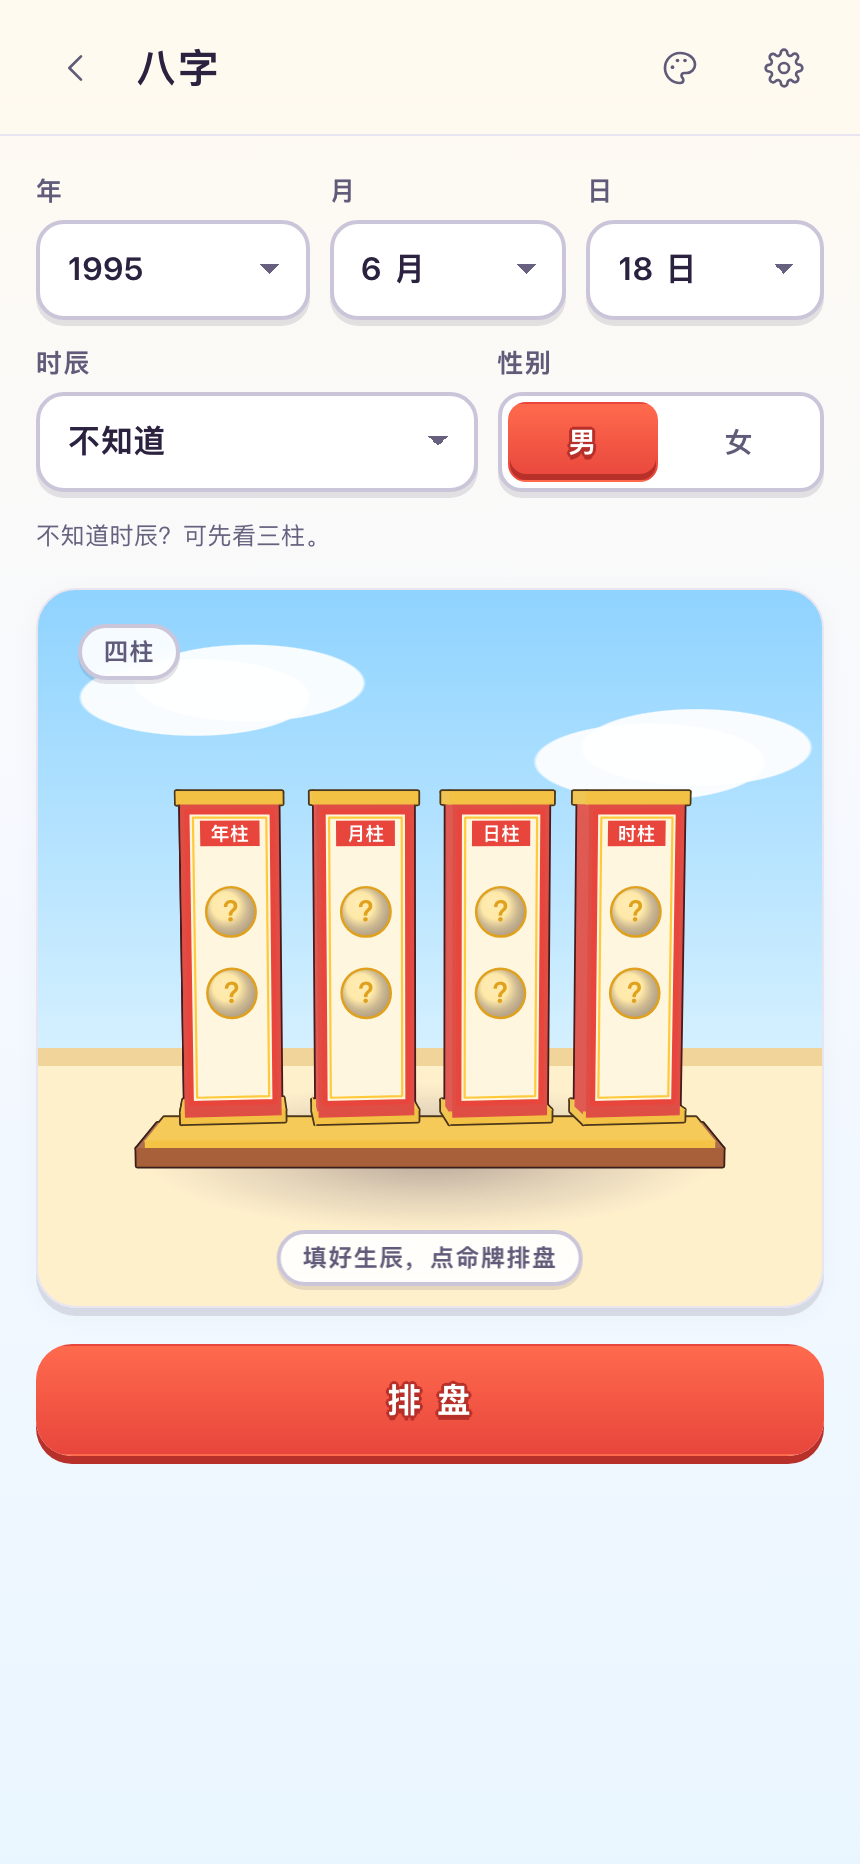
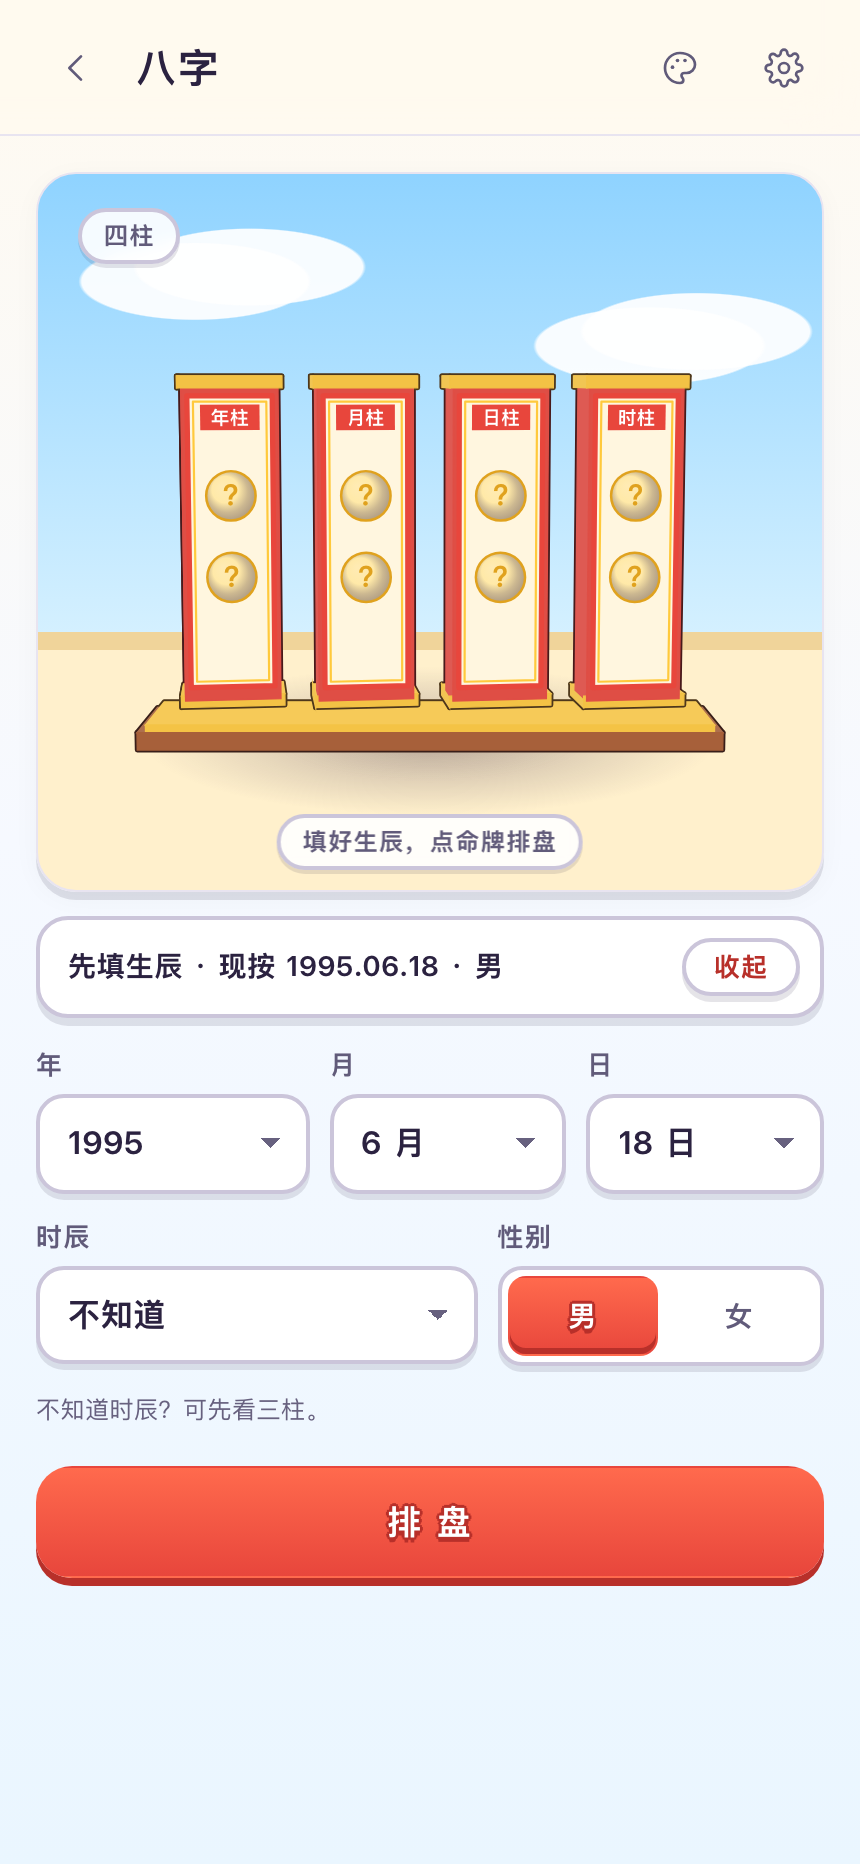
八字生辰表单折叠到舞台下方（命牌进首屏上半部），风水「填上生年」改描边胶囊
第 48 轮。新用户默认展开表单，排过一次后收起。tests/toon-fold.test.mjs 2 项。
第 45 轮留下的未提交改动仍原样留在工作区，未包含在本提交。

Claude-Session: https://claude.ai/code/session_01LrMMAZURPfG94J5foaSPPV

diff --git a/src/modules/bazi/view.js b/src/modules/bazi/view.js
@@ -4,6 +4,7 @@ import { computeChart, elementRatios, shareText, daysInMonth, ELEMENTS } from '.
 import { HOURS, GENDERS, DAY_MASTER, ELEMENT_INFO, SHISHEN_TEXT, TODAY_TEXT, NAYIN_TEXT, STRENGTH_TEXT, UI } from './data.js';
 import { createRitual } from '../../ui/ritual.js';
 import { createModelSlot } from '../../ui/model-slot.js';
+import { createBirthFold, describeBirth } from '../../ui/birth-form.js';
 
 const YEAR_NOW = new Date().getFullYear();
 
@@ -18,6 +19,8 @@ export function mount(container, ctx) {
   let chart = null;
   let resultSheet = null;
   let busy = false;
+  // 填过生辰（自己的或共享的）就把表单折叠成舞台下一行，首屏留给命牌。新用户默认展开，免得拿占位生辰排盘
+  let hasBirth = !!(storage.get('birth', null) || shared);
 
   /* ---------- 表单 ---------- */
   const years = [];
@@ -41,6 +44,8 @@ export function mount(container, ctx) {
     input = { ...input, [k]: v };
     if (k === 'y' || k === 'm') fillDays();
     storage.set('birth', input);
+    hasBirth = true;
+    fold.update();
     haptic.tap();
     if (chart && !busy) {
       chart = null;
@@ -61,6 +66,12 @@ export function mount(container, ctx) {
     h('p', { class: 'bz-note' }, UI.hourNote),
   );
   const setFormDisabled = (v) => form.querySelectorAll('select, button').forEach((el) => { el.disabled = v; });
+  const fold = createBirthFold({
+    cls: 'bz-fold',
+    summary: () => (hasBirth ? `我的生辰 · ${describeBirth(input)}` : `先填生辰 · 现按 ${describeBirth(input)}`),
+    content: form,
+    open: !hasBirth,
+  });
 
   /* ---------- 舞台：四柱 ---------- */
   const st = stage({ cls: 'bz-stage', badge: UI.badgeIdle, hint: UI.stageHint });
@@ -73,7 +84,7 @@ export function mount(container, ctx) {
 
   const primaryBtn = button(UI.primary, { variant: 'primary', size: 'large', primary: true, onClick: () => compute() });
   // 先把界面挂上，再创建命牌模型：模型在已连接的舞台里初始化，首帧就能画出来。
-  container.append(ritual.progress, form, h('div', { class: 'mt-3' }, st.el), kit.actionBar(primaryBtn), ritual.receipt, barsEl, todayEl);
+  container.append(ritual.progress, st.el, fold.el, kit.actionBar(primaryBtn), ritual.receipt, barsEl, todayEl);
   const slot = createModelSlot(ctx, { id: 'bazi.pillars', label: '四柱命牌', hint: UI.stageHint });
   slot.el.classList.add('bz-slot');
   st.scene.append(slot.el, pillarsEl);
@@ -98,6 +109,10 @@ export function mount(container, ctx) {
       setFormDisabled(false);
       return;
     }
+    // 排过一次就算填过：记下生辰并收起表单，结果出来时舞台和小结在一屏里
+    if (!hasBirth) { hasBirth = true; storage.set('birth', input); }
+    fold.update();
+    fold.setOpen(false);
     haptic.light();
     sound.play('flip');
     st.setBadge(`${chart.lunarText} · ${chart.shengXiao}年生`);

diff --git a/src/styles/toon-buttons.css b/src/styles/toon-buttons.css
@@ -118,3 +118,27 @@
 [data-theme='paper'] :is(.birth-form .bf-row2, .m-bazi .bz-form .bz-row2) .chip.active { color: #fff; text-shadow: var(--btn-outline); }
 /* 青瓷主色偏浅，和它的主按钮一样给白字加深色描边 */
 [data-theme='celadon'] :is(.birth-form .bf-row2, .m-bazi .bz-form .bz-row2) .chip.active { text-shadow: var(--btn-outline); }
+
+/* 第 48 轮：风水罗盘读数下的「填上生年，看此方对你的吉凶」原来是红字配点状下划线，像网页链接。
+   改成和「去填生辰」同一套白底 2px 描边胶囊加 3px 厚边，主色字，按下下沉，点按区域 44pt。 */
+.m-fengshui .btn.fs-fill {
+  min-height: 44px;
+  margin-top: 6px;
+  padding: 6px 16px;
+  background: var(--surface);
+  border: 2px solid var(--line-strong);
+  border-radius: 999px;
+  box-shadow: 0 3px 0 var(--edge-color);
+  color: var(--accent-text);
+  font-family: var(--font-round, var(--font-sans));
+  font-size: 13px;
+  font-weight: 800;
+  letter-spacing: .02em;
+  text-decoration: none;
+  white-space: nowrap;
+}
+.m-fengshui .btn.fs-fill:active:not(:disabled) { transform: translateY(2px); box-shadow: 0 1px 0 var(--edge-color); }
+
+/* 第 48 轮：八字的生辰表单从舞台上方挪到舞台下方，折叠成一行（同姻缘），393×852 下命牌进首屏上半部。
+   新用户默认展开，排过一次后收起。 */
+.m-bazi .bz-fold .bz-form { margin-bottom: 0; }

diff --git a/docs/claude-plan/TODO.md b/docs/claude-plan/TODO.md
@@ -147,5 +147,6 @@ P0 上架必需 · P1 影响付费转化 · P2 体验打磨。完成后打勾并
 - [x] **舞台下生辰行、生辰折叠卡、体感卡与「去填生辰」「修改」卡通化**（P2，第 47 轮 @readfull 长图发现）✅ 2026-11-10（财运、事业的生辰行和姻缘、八字的生辰折叠卡是 1px 细边，「去填生辰」「修改」是没有边框的浅粉平涂胶囊，体感卡也是细边。三张卡改 2px 描边加 4px 厚边、文字圆体 800，按钮改白底 2px 描边胶囊加 3px 厚边、主色字、按下下沉。`toon-buttons.css` 第 47 轮一节，`tests/toon-cards.test.mjs`）
 - [x] **舞台角标与底部提示卡通化**（P2，第 47 轮发现）✅ 2026-11-10（左上角「丁亥日 · 中签」「金钱课 · 待掷」等是 12px、字距 .08em 的半透明小签，叠在白云上分不出边界。所有玩法的 `.stage-badge` 与 `.stage-hint` 改 2px 描边胶囊、0 2px 0 厚边、圆体 800、字距 .04em。财运、姻缘、八字、六爻、风水两种尺寸截图过目）
 - [x] **输入框、下拉框与性别切换卡通化**（P2，第 47 轮发现）✅ 2026-11-10（年月日时辰下拉框、六爻「所问之事」输入框是 1px 淡线白框，性别「男 / 女」是细线分段框里一块浅灰底，像系统默认控件。`.input`、`.select`、`.textarea` 全局改 2px 描边加 3px 厚边、圆体 700，聚焦主色描边。生辰表单与八字的性别切换改描边分段框，选中项和选中页签同一套按钮渐变，宣纸与青瓷白字加深色描边。contrast-audit 八字、姻缘、财运、事业、六爻、风水、塔罗、水晶球 × 五套皮肤 0 处，第一次跑出青瓷「男」2.57:1，加描边后修好）
-- [ ] **风水罗盘「填上生年，看此方对你的吉凶」是虚下划线链接**（P2，第 47 轮截图发现）：读数下面一行红字配点状下划线，像网页链接。完成标准：改描边胶囊小按钮（44pt）或描边提示条，两种尺寸截图过目。
-- [ ] **八字表单「不知道时辰？可先看三柱。」与字段间距**（P2，第 47 轮截图发现）：表单区在舞台上方占了约 300px，八字页舞台被推到 393×852 首屏中段。完成标准：考虑像姻缘页一样折叠生辰卡，或保留表单但舞台顶部进入首屏 450px 以内，两种尺寸截图过目。
+- [x] **风水罗盘「填上生年，看此方对你的吉凶」是虚下划线链接** ✅ 2026-11-10（第 48 轮，改白底 2px 描边胶囊加 3px 厚边、主色字、圆体 800、44pt、按下下沉，宣纸与玄墨两种尺寸截图过目，`tests/toon-fold.test.mjs`）（P2，第 47 轮截图发现）：读数下面一行红字配点状下划线，像网页链接。完成标准：改描边胶囊小按钮（44pt）或描边提示条，两种尺寸截图过目。
+- [x] **八字表单「不知道时辰？可先看三柱。」与字段间距** ✅ 2026-11-10（第 48 轮，生辰表单挪到舞台下方并装进 `createBirthFold` 折叠卡，同姻缘。填过生辰（自己的或共享的）默认收起成一行「我的生辰 · 1995.06.18 · 男  修改」，新用户默认展开且写「先填生辰 · 现按 …」，免得拿占位生辰排盘，排过一次后记下生辰并收起。393×852 下舞台顶部约 86px，新用户展开表单时「排盘」按钮仍在首屏。宣纸、玄墨两种尺寸截图过目，`tests/e2e/profile.e2e.mjs` 2 项通过）（P2，第 47 轮截图发现）：表单区在舞台上方占了约 300px，八字页舞台被推到 393×852 首屏中段。完成标准：考虑像姻缘页一样折叠生辰卡，或保留表单但舞台顶部进入首屏 450px 以内，两种尺寸截图过目。
+- [ ] **全量 contrast-audit 复查**（P2，第 48 轮新增）：第 47 轮输入框描边与第 48 轮的折叠卡、胶囊只按相关页面审过。完成标准：Mac 负载低于 15 时跑 21 页 × 五套皮肤，0 处不达标。

diff --git a/docs/claude-plan/visual-direction.md b/docs/claude-plan/visual-direction.md
@@ -114,3 +114,7 @@
 - 舞台下小卡（第 47 轮，`toon-buttons.css`）：财运与事业的生辰行、生辰折叠卡、手机体感卡统一 2px --line-strong 描边加 0 4px 0 --edge-color 厚边，卡内文字 --text 圆体 800。「去填生辰」「修改」「收起」白底 --surface、2px 描边胶囊、0 3px 0 厚边、--accent-text 字、圆体 800，按下下沉 2px。
 - 舞台角标与提示（第 47 轮）：`.stage-badge`、`.stage-hint` 2px --line-strong 描边胶囊、0 2px 0 厚边、内边距 3px 11px、圆体 800、字距 .04em，底色沿用 contrast.css 的 88% 到 90% 不透明。
 - 表单控件（第 47 轮）：`.input`、`.select`、`.textarea` 2px --line-strong 描边加 0 3px 0 厚边，值圆体 700，占位字 600，聚焦时描边 --accent、厚边 --accent-3。性别分段框 2px 描边、3px 内边距与间隔，选项圆体 800、圆角 9px、高 40px，选中项 --btn-top 到 --btn-bottom 渐变、内侧 3px --btn-edge 厚边、--accent-ink 字，宣纸与青瓷白字套 --btn-outline。
+
+附：第 48 轮参数
+- 风水「填上生年」胶囊：白底 `--surface`，2px `--line-strong` 描边，`0 3px 0 --edge-color` 厚边，圆角 999px，圆体 800 13px，字距 .02em，`--accent-text` 字，最小高 44px，按下下移 2px、厚边减到 1px。
+- 八字生辰：表单挪到舞台下方的 `createBirthFold`（与姻缘同款），填过生辰默认收起，新用户默认展开，排过一次后收起。
